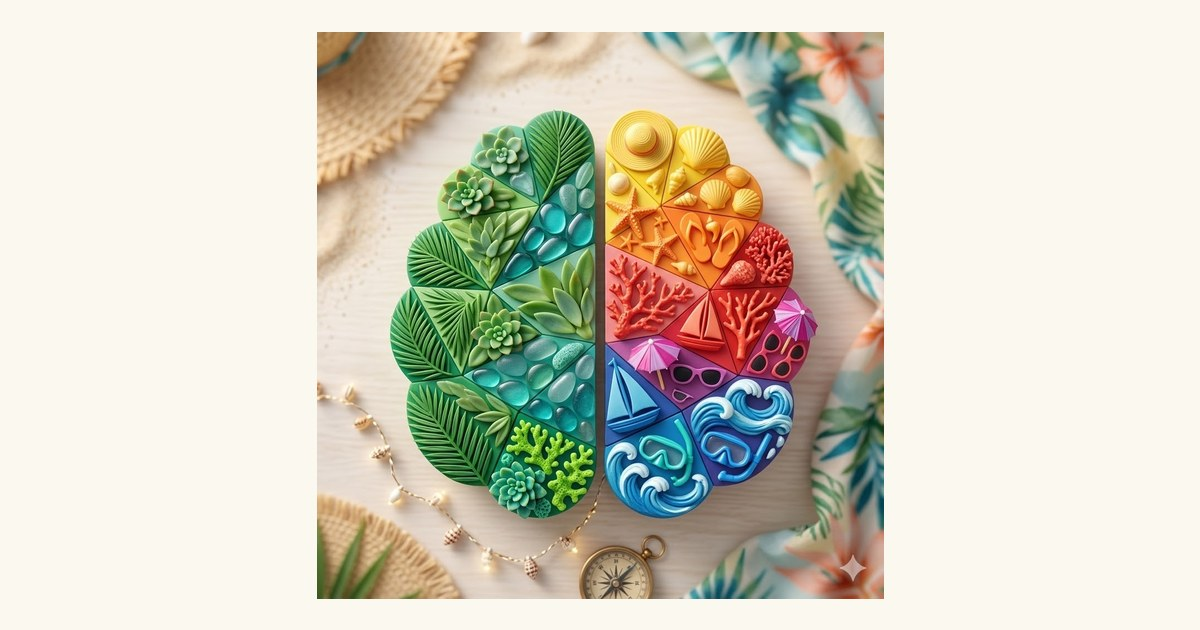
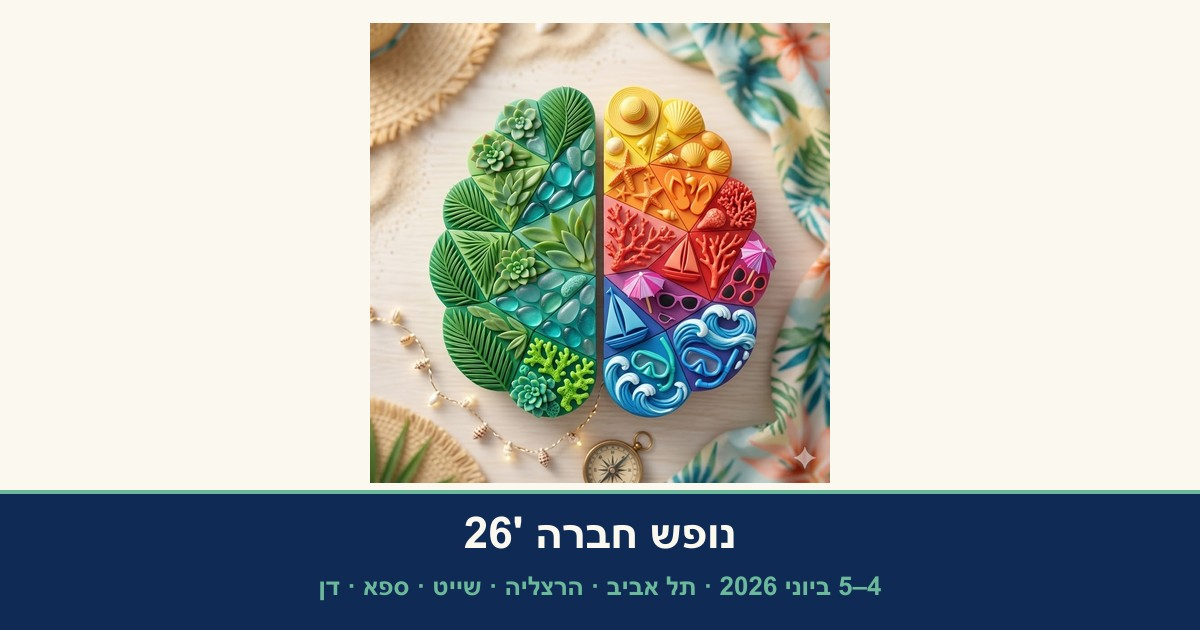
Fix WhatsApp link preview and rename app to נופש חברה '26
Use absolute Open Graph image URLs (required by WhatsApp), regenerate og-cover with branded footer band, and align PWA/manifest titles with the new app name.

diff --git a/index.html b/index.html
@@ -23,37 +23,42 @@
     <meta name="apple-mobile-web-app-capable" content="yes" />
     <meta name="mobile-web-app-capable" content="yes" />
     <meta name="apple-mobile-web-app-status-bar-style" content="default" />
-    <meta name="apple-mobile-web-app-title" content="תפנית '26" />
+    <meta name="apple-mobile-web-app-title" content="נופש חברה '26" />
 
-    <title>נופש חברה תפנית · 4-5 ביוני 2026</title>
+    <title>נופש חברה '26 · 4-5 ביוני 2026</title>
     <meta
       name="description"
       content="נופש חברה תפנית · 4-5 ביוני 2026 · תוכנית, מלון דן תל אביב, ספא Via LOMAH, שייט מהמרינה בהרצליה, מפה וטיפים."
     />
 
+    <!-- Canonical + absolute URLs — required for WhatsApp / iMessage link previews -->
+    <link rel="canonical" href="https://tikel1.github.io/tafnit-retreat-2026/" />
+
     <!-- Open Graph (WhatsApp, Facebook, iMessage, LinkedIn, Slack) -->
     <meta property="og:type" content="website" />
-    <meta property="og:site_name" content="נופש חברה תפנית" />
-    <meta property="og:title" content="נופש חברה תפנית · 4-5 ביוני 2026" />
+    <meta property="og:site_name" content="נופש חברה '26" />
+    <meta property="og:url" content="https://tikel1.github.io/tafnit-retreat-2026/" />
+    <meta property="og:title" content="נופש חברה '26 · 4-5 ביוני 2026" />
     <meta
       property="og:description"
       content="יומיים של ים, פינוק וזמן ביחד — תל אביב והרצליה, 4-5 ביוני 2026."
     />
-    <meta property="og:image" content="./images/og-cover.jpg" />
+    <meta property="og:image" content="https://tikel1.github.io/tafnit-retreat-2026/images/og-cover.jpg?v=2" />
+    <meta property="og:image:secure_url" content="https://tikel1.github.io/tafnit-retreat-2026/images/og-cover.jpg?v=2" />
     <meta property="og:image:type" content="image/jpeg" />
     <meta property="og:image:width" content="1200" />
     <meta property="og:image:height" content="630" />
-    <meta property="og:image:alt" content="נופש חברה תפנית — חצי ירוק של פינוק וחצי צבעוני של ים" />
+    <meta property="og:image:alt" content="נופש חברה '26 — תפנית · ים, שייט, ספא ומלון דן" />
     <meta property="og:locale" content="he_IL" />
 
     <!-- Twitter / X (also used as a fallback by some clients) -->
     <meta name="twitter:card" content="summary_large_image" />
-    <meta name="twitter:title" content="נופש חברה תפנית · 4-5 ביוני 2026" />
+    <meta name="twitter:title" content="נופש חברה '26 · 4-5 ביוני 2026" />
     <meta
       name="twitter:description"
       content="יומיים של ים, פינוק וזמן ביחד — תל אביב והרצליה, 4-5 ביוני 2026."
     />
-    <meta name="twitter:image" content="./images/og-cover.jpg" />
+    <meta name="twitter:image" content="https://tikel1.github.io/tafnit-retreat-2026/images/og-cover.jpg?v=2" />
 
     <link rel="preconnect" href="https://fonts.googleapis.com" />
     <link rel="preconnect" href="https://fonts.gstatic.com" crossorigin />

diff --git a/src/lib/dict.ts b/src/lib/dict.ts
@@ -12,7 +12,7 @@
 export const DICT = {
   /* ---------- Brand / hero ---------- */
   brand: "נופש חברה תפנית",
-  brand_short: "תפנית '26",
+  brand_short: "נופש חברה '26",
   brand_year: "'26",
   brand_subtitle: "4-5 ביוני 2026",
   /* Magazine-style "by-line" shown under the masthead in the hero. */
